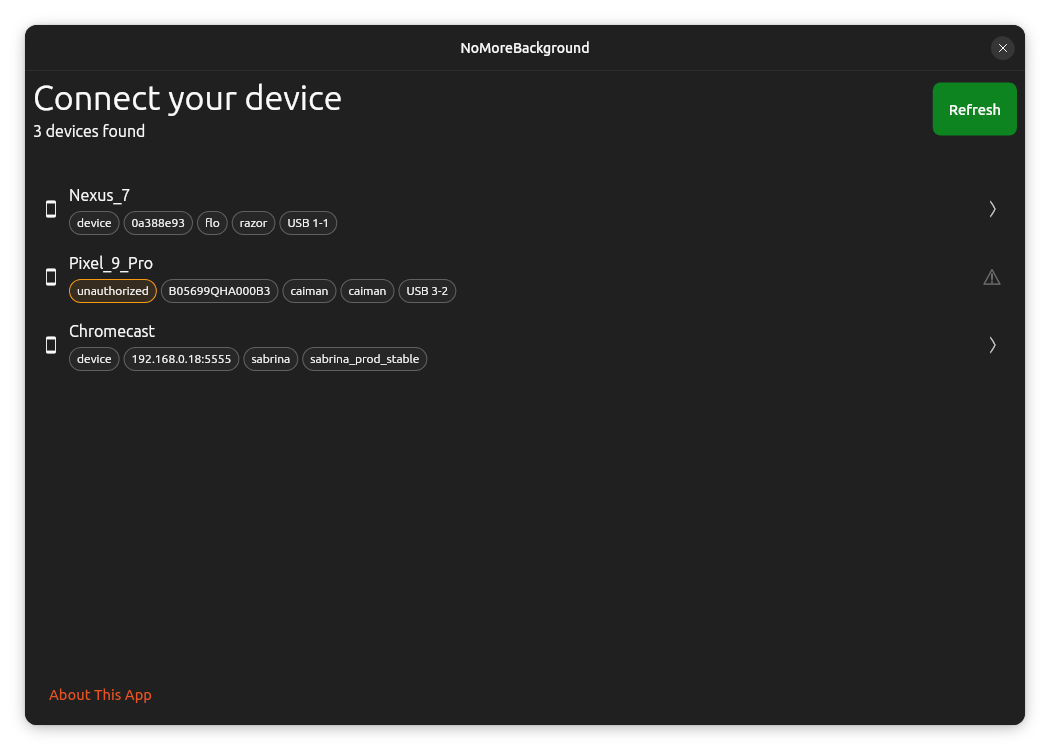
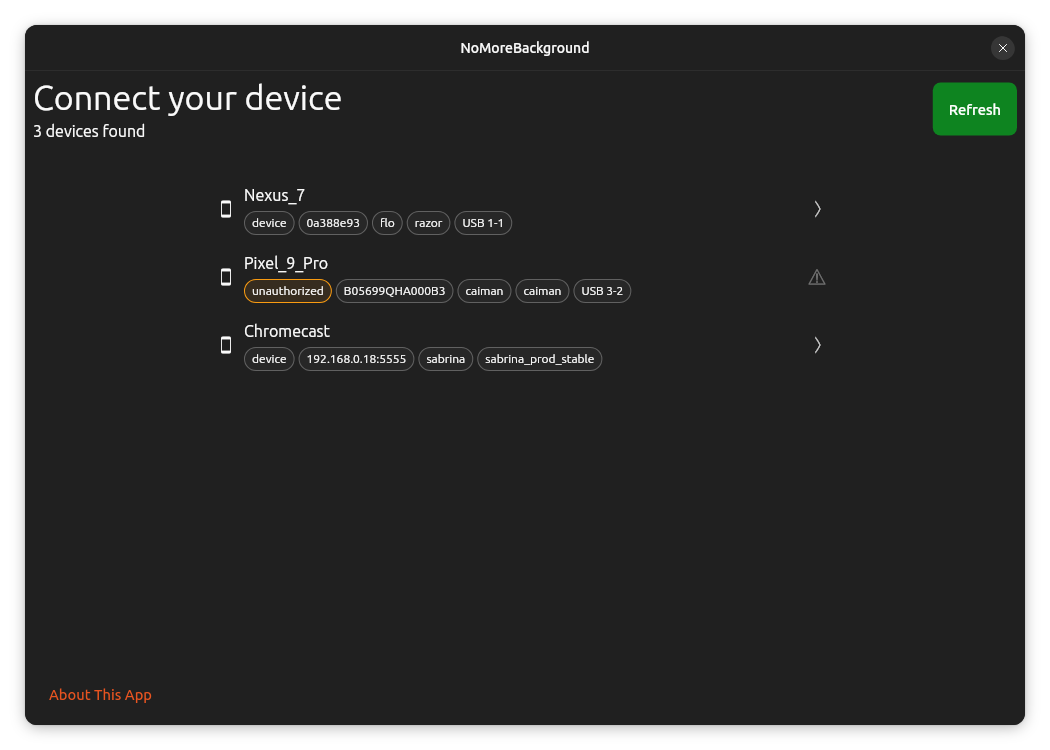
tweak: set max width of connect page too

diff --git a/lib/pages/connect_page.dart b/lib/pages/connect_page.dart
@@ -1,3 +1,5 @@
+import 'dart:math';
+
 import 'package:flutter/material.dart';
 import 'package:flutter_hooks/flutter_hooks.dart';
 import 'package:no_more_background/components/about_this_app_button.dart';
@@ -5,6 +7,7 @@ import 'package:no_more_background/components/connect_page_content_no_adb.dart';
 import 'package:no_more_background/components/device_tile.dart';
 import 'package:no_more_background/compute/adb.dart';
 import 'package:no_more_background/data/adb_device.dart';
+import 'package:no_more_background/data/constants.dart';
 import 'package:no_more_background/data/workers.dart';
 import 'package:no_more_background/pages/apps_page.dart';
 import 'package:yaru/yaru.dart';
@@ -62,7 +65,11 @@ class _ConnectPageContentDevices extends StatelessWidget {
 
   @override
   Widget build(BuildContext context) {
+    final screenWidth = MediaQuery.sizeOf(context).width;
     return ListView.builder(
+      padding: .symmetric(
+        horizontal: max(0, (screenWidth - kMaxContentWidth) / 2),
+      ),
       itemCount: devices.length,
       itemBuilder: (context, index) {
         if (index >= devices.length) return null;

diff --git a/lib/pages/apps_page.dart b/lib/pages/apps_page.dart
@@ -4,6 +4,7 @@ import 'package:no_more_background/components/device_tile.dart';
 import 'package:no_more_background/compute/adb.dart';
 import 'package:no_more_background/data/adb_app.dart';
 import 'package:no_more_background/data/adb_permissions.dart';
+import 'package:no_more_background/data/constants.dart';
 import 'package:yaru/yaru.dart';
 
 class AppsPage extends StatefulWidget {
@@ -91,7 +92,7 @@ class AppsPageState extends State<AppsPage> {
               child: Padding(
                 padding: const .all(kYaruPagePadding),
                 child: YaruSection(
-                  width: 700,
+                  width: kMaxContentWidth,
                   headline: Column(
                     crossAxisAlignment: .stretch,
                     children: [

diff --git a/lib/components/app_tile.dart b/lib/components/app_tile.dart
@@ -1,5 +1,4 @@
 import 'package:flutter/cupertino.dart';
-import 'package:flutter/gestures.dart';
 import 'package:flutter/material.dart';
 import 'package:no_more_background/compute/adb.dart';
 import 'package:no_more_background/data/adb_app.dart';

diff --git a/lib/data/constants.dart b/lib/data/constants.dart
@@ -1,0 +1,1 @@
+const kMaxContentWidth = 700.0;
